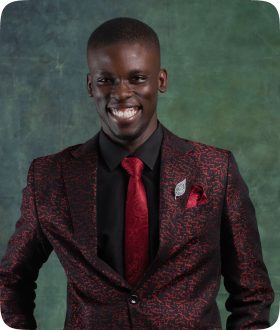
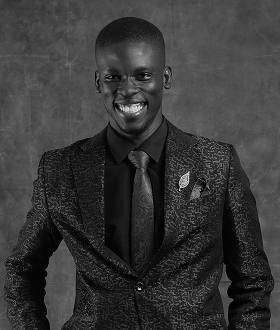
Main

diff --git a/src/assets/aboutAssets.ts b/src/assets/aboutAssets.ts
@@ -3,12 +3,9 @@ import Astronaut1 from "../assets/images/About/Astraunaut1.png";
 import Astronaut2 from "../assets/images/About/Astraunaut2.png";
 import stars1 from "../assets/images/About/stars1.svg";
 import deskJourney from "../assets/images/About/DeskJourney.png";
-import Aladeloye from "../assets/images/About/Aladeloye.jpg";
-import Gabriel from "../assets/images/About/Gabriel.jpg";
-import Leks from "../assets/images/About/Leks.jpg";
-import Titan from "../assets/images/About/Gabriel.jpg";
-import Kenny from "../assets/images/About/Gabriel.jpg";
-import Bolex from "../assets/images/About/Aladeloye.jpg";
+import Aladeloye from "../assets/images/About/Aladeloye.png";
+import Gabriel from "../assets/images/About/Olajide.png";
+import Leks from "../assets/images/About/Olalere.png";
 import Arrow from "../assets/images/About/arrow.svg";
 import Launch from "../assets/images/About/Launch.svg";
 
@@ -22,8 +19,5 @@ export const aboutAssets = {
   Gabriel,
   Arrow,
   Leks,
-  Titan,
-  Kenny,
-  Bolex,
   Launch,
 };

diff --git a/src/lib/aboutLib.ts b/src/lib/aboutLib.ts
@@ -14,12 +14,12 @@ export const team = [
   {
     name: "Bolarinwa Boluwatife",
     role: "Co-Founder & Back End Lead",
-    image: aboutAssets.Bolex,
+    image: aboutAssets.Aladeloye,
   },
   {
     name: "Adebayo Taiwo",
     role: "Project Manager & Software Developer",
-    image: aboutAssets.Titan,
+    image: aboutAssets.Leks,
   },
   {
     name: "Olajide Gabriel",
@@ -29,7 +29,7 @@ export const team = [
   {
     name: "Adebayo Kehinde",
     role: "Content Creator & Social Media Manager",
-    image: aboutAssets.Kenny,
+    image: aboutAssets.Aladeloye,
   },
 ];
 
